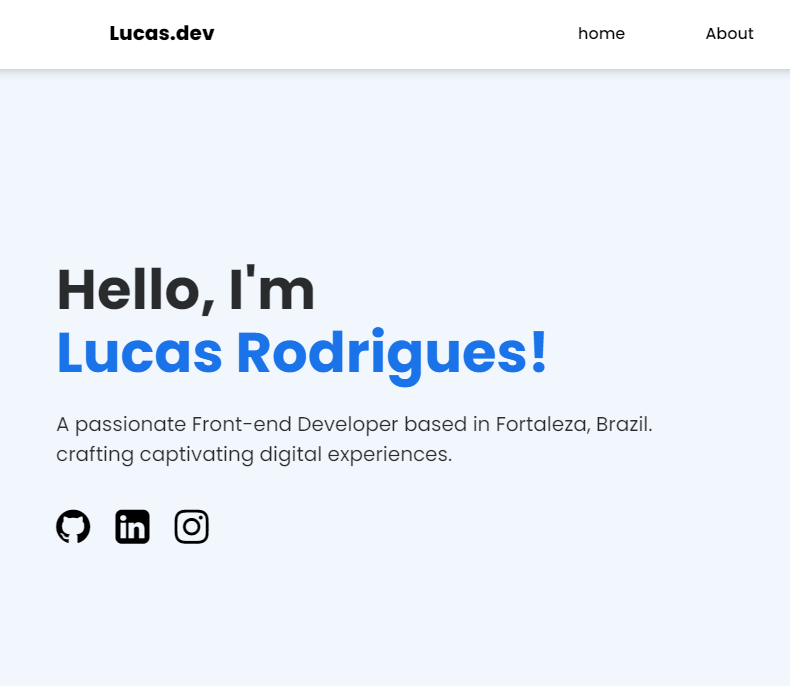
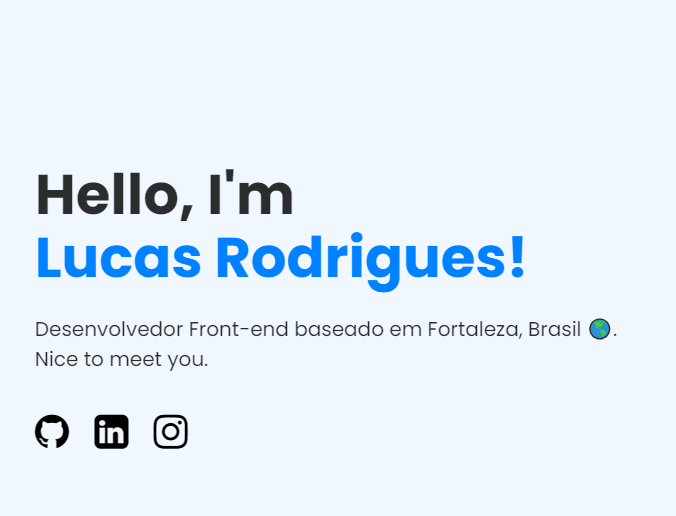
add image portfolio

diff --git a/css/style.css b/css/style.css
@@ -2,7 +2,8 @@
 
 :root
 {
-    --color-primary: #1A73E8;
+    /* --color-primary: #1A73E8; */
+    --color-primary: #0081FF;
     --color-secundary: rgba(0, 0, 0, 0.822);
     --color-background: #1a73e80f;
     --font-primary: 'Poppins', sans-serif;;
@@ -101,21 +102,6 @@ html#nojs body main
     }
 }
 
-
-
-
-
-
-
-
-
-
-
-
-
-
-
-
 body header .top-header
 {
     display: flex;
@@ -136,9 +122,10 @@ body header .top-header .top-name a
 {
     font-weight: 900;
     font-size: 20px;
+    
 }
 
-body header .top-header .top-name a:hover .blue-effect
+body header .top-header .top-name a .blue-effect
 {
     color: var(--color-primary);
 }
@@ -381,30 +368,28 @@ main section .about .my-photo
     background-repeat: no-repeat;
     background-size: cover;
     background-position: center;
-    background-image: url("../assets/img/perfil.jpg");
+    background-image: url("../assets/img/foto-lucas-transformed.png");
+    background-color: var(--color-primary);
+    outline: 10px solid var(--color-primary);
     transition: all .3s ease-in-out;
+    border-radius: 54% 46% 54% 46%/48% 52% 42% 58%;
+    border: 3px solid white;
 }
 
 main section .about .my-photo .shape
 {
     width: 100%;
     height: 100%;
-    background-color: #1a73e89e;
+    background-color: var(--color-primary);
     position: absolute;
     
     border-radius: 48% 52% 42% 58%/54% 46% 54% 46%;
     outline: 10px solid var(--color-primary);
-    opacity: 0.7;
     animation: photo_rotate 7s linear infinite;
     z-index: -1;
     transition: all .3s ease-in-out;
 }
 
-
-main section .about .my-photo:hover .shape
-{
-    opacity: 1;
-}
 
 @keyframes photo_rotate {
     0%

diff --git a/index.html b/index.html
@@ -64,7 +64,7 @@
                 <div class="about-content">
                     <h1>Hello, I'm <br>
                     <span>Lucas Rodrigues!</span></h1>
-                    <p>Um apaixonado desenvolvedor Front-end baseado em Fortaleza, Brasil. Nice to meet you.</p>
+                    <p>Desenvolvedor Front-end baseado em Fortaleza, Brasil 🌎.<br> Nice to meet you.</p>
                     <div class="socials">
                         <a href="https://github.com/lucasrvasconcelos" target="_blank">
                             <i class="fa fa-github" aria-hidden="true"></i>
